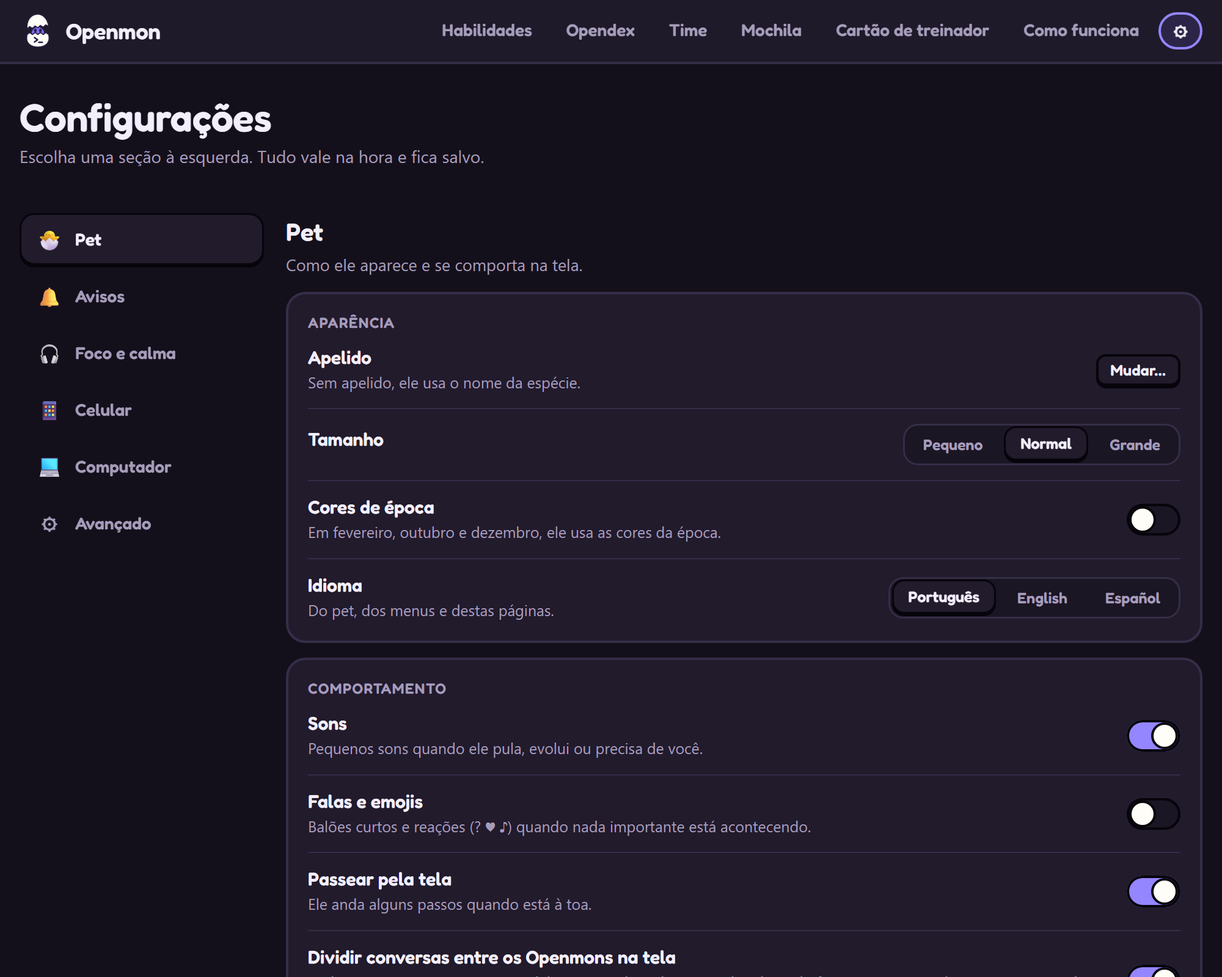
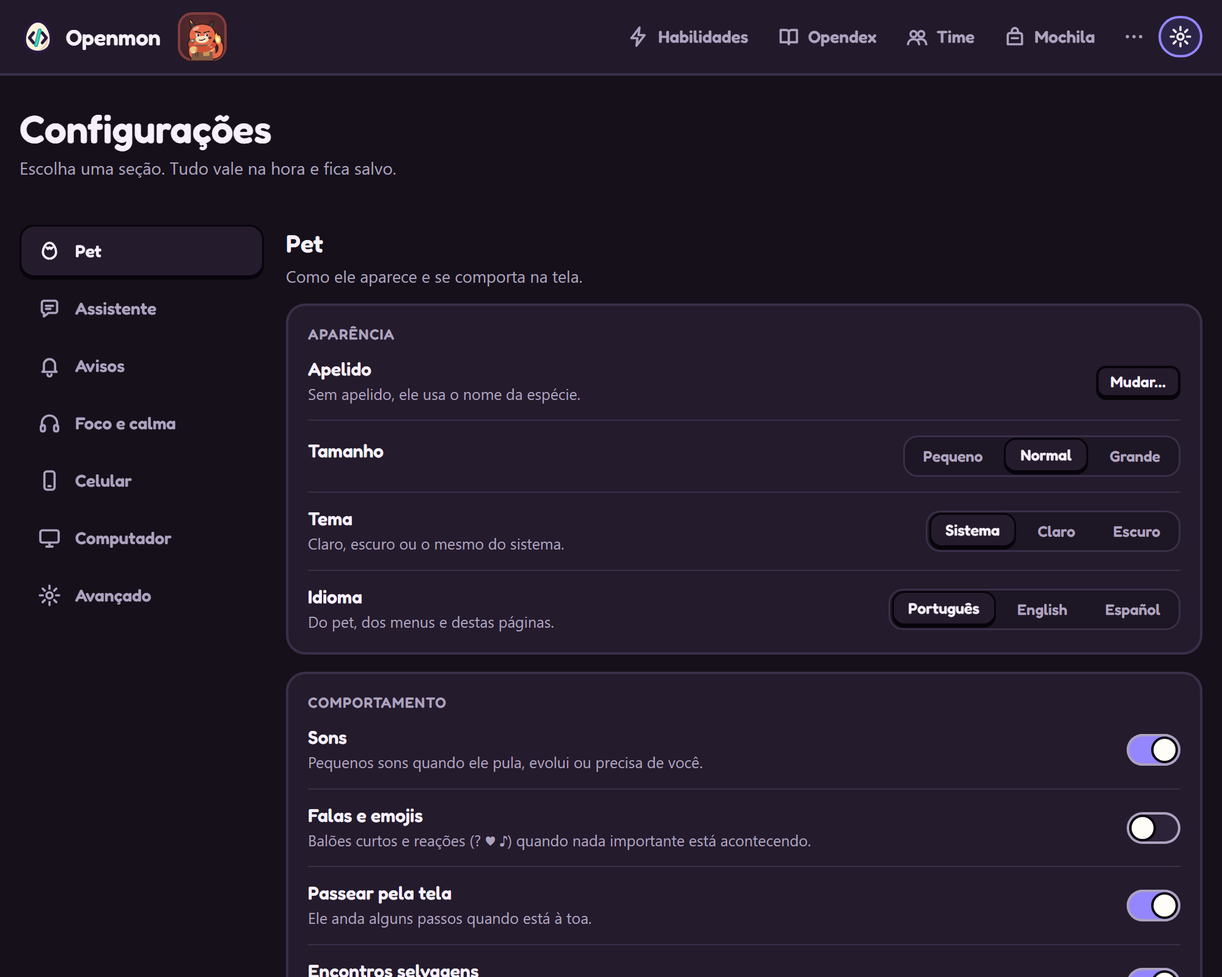
Animation brief for 0.6, with the assistant; fresh screenshots
- docs/VIDEO-BRIEF.md: the banner gets a scene for the assistant (the
  quick box: a reminder asked, answered, then said on time), the inside
  diagram a fifth step (it answers with your own Claude Code and Openmon's
  tools), three languages, no night form, no glow on shinies, privacy said
  truthfully.
- tools/screens.js: also the assistant (a conversation with folded steps
  and code) and the quick box with an answer, one Electron per language.
- docs/screens: regenerated (the top bar, Settings and the rest are as in
  0.6), plus assistant.*.png and quick.*.png.

diff --git a/tools/screens.js b/tools/screens.js
@@ -12,14 +12,20 @@
 const path = require('node:path');
 
 if (!process.versions.electron) {
+  // One Electron per language: each one's assistant conversations are read
+  // when its daemon starts.
   const { spawnSync } = require('node:child_process');
-  const result = spawnSync(require('electron'), [__filename, ...process.argv.slice(2)], { stdio: 'inherit' });
-  process.exit(result.status === null ? 1 : result.status);
+  const asked = process.argv.slice(2).filter((a) => ['pt-BR', 'en', 'es'].includes(a));
+  for (const lang of asked.length ? asked : ['pt-BR', 'en', 'es']) {
+    const result = spawnSync(require('electron'), [__filename, lang], { stdio: 'inherit' });
+    if (result.status !== 0) process.exit(result.status === null ? 1 : result.status);
+  }
+  process.exit(0);
 }
 
 const fs = require('node:fs');
 const os = require('node:os');
-const { app, BrowserWindow } = require('electron');
+const { app, BrowserWindow, ipcMain } = require('electron');
 
 process.env.OPENMON_HOME = fs.mkdtempSync(path.join(os.tmpdir(), 'openmon-screens-home-'));
 const { createDaemon } = require('../src/server');
@@ -78,7 +84,40 @@ const SHOTS = [
   { name: 'help', path: '/help.html', w: 1000, h: 900 },
   { name: 'party', path: '/party.html', w: 1000, h: 1000 },
   { name: 'settings', path: '/settings.html', w: 1000, h: 800 },
+  // The assistant: a conversation, and the quick box with its answer.
+  { name: 'assistant', path: '/chat.html?id=c0ffee00c0ffee01', w: 1000, h: 720, desktop: true },
+  { name: 'quick', path: '/ask.html', w: 420, h: 400, desktop: true },
 ];
+
+// A conversation with the assistant, as Openmon keeps it (chats/), per language.
+const CHAT = {
+  'pt-BR': { title: 'Por que o teste do carrinho falha?', q: 'Por que o teste do carrinho falha?', a: 'O total ignora o desconto quando o cupom é aplicado depois do frete. Corrigi `total()` em **cart.ts**:\n\n```ts\nexport function total(cart: Cart): number {\n  const items = cart.items.reduce((s, i) => s + i.price * i.qty, 0);\n  return Math.max(0, items + cart.shipping - cart.discount); // desconto por último\n}\n```\n\nOs 12 testes passam agora. Quer que eu abra o PR?', quickQ: 'Me lembra às 15h de ligar pro João.', quickA: 'Combinado: às **15:00** eu te aviso para ligar pro João. ⏰' },
+  en: { title: 'Why does the cart test fail?', q: 'Why does the cart test fail?', a: 'The total ignores the discount when the coupon comes after shipping. I fixed `total()` in **cart.ts**:\n\n```ts\nexport function total(cart: Cart): number {\n  const items = cart.items.reduce((s, i) => s + i.price * i.qty, 0);\n  return Math.max(0, items + cart.shipping - cart.discount); // discount last\n}\n```\n\nAll 12 tests pass now. Shall I open the PR?', quickQ: 'Remind me at 3 pm to call John.', quickA: 'Done: at **15:00** I will remind you to call John. ⏰' },
+  es: { title: '¿Por qué falla la prueba del carrito?', q: '¿Por qué falla la prueba del carrito?', a: 'El total ignora el descuento cuando el cupón llega después del envío. Corregí `total()` en **cart.ts**:\n\n```ts\nexport function total(cart: Cart): number {\n  const items = cart.items.reduce((s, i) => s + i.price * i.qty, 0);\n  return Math.max(0, items + cart.shipping - cart.discount); // descuento al final\n}\n```\n\nLas 12 pruebas pasan ahora. ¿Abro el PR?', quickQ: 'Recuérdame a las 15 llamar a Juan.', quickA: 'Listo: a las **15:00** te aviso para llamar a Juan. ⏰' },
+};
+function seedChats(dir, lang, now) {
+  const t = CHAT[lang];
+  const chats = path.join(dir, 'chats');
+  fs.mkdirSync(chats, { recursive: true });
+  const at = (m) => now - m * 60_000;
+  const chat = { id: 'c0ffee00c0ffee01', sessionId: '7a4be6be-457a-4b1d-8748-023f7f090cf2', cwd: path.join(os.homedir(), 'work', 'shop-api'), title: t.title, createdAt: at(30), updatedAt: at(2), costUsd: 0, plan: true, started: true };
+  const quick = { id: 'c0ffee00c0ffee02', sessionId: '7a4be6be-457a-4b1d-8748-023f7f090cf3', cwd: path.join(os.homedir(), 'Documents', 'Openmon'), title: lang === 'pt-BR' ? 'Perguntas rápidas' : lang === 'es' ? 'Preguntas rápidas' : 'Quick questions', createdAt: at(10), updatedAt: at(1), costUsd: 0, plan: true, started: true };
+  fs.writeFileSync(path.join(chats, 'chats.json'), JSON.stringify([chat, quick]));
+  fs.writeFileSync(path.join(chats, `${chat.id}.json`), JSON.stringify([
+    { role: 'user', text: t.q, at: at(6) },
+    { role: 'tool', text: 'Read: cart.ts', tool: 'Read', at: at(5) },
+    { role: 'tool', text: 'Bash: npm test', tool: 'Bash', at: at(5) },
+    { role: 'tool', text: 'Edit: cart.ts', tool: 'Edit', at: at(4) },
+    { role: 'tool', text: 'Bash: npm test', tool: 'Bash', at: at(3) },
+    { role: 'assistant', text: t.a, at: at(2) },
+  ]));
+  fs.writeFileSync(path.join(chats, `${quick.id}.json`), JSON.stringify([
+    { role: 'user', text: t.quickQ, at: at(2) },
+    { role: 'tool', text: 'Openmon · remind: João', tool: 'mcp__openmon__remind', at: at(2) },
+    { role: 'assistant', text: t.quickA, at: at(1) },
+  ]));
+  return quick.id;
+}
 
 // Pages are drawn at twice their size (like a high-density screen), so the
 // README shows them sharp; the README sets the display width. The window
@@ -87,6 +126,8 @@ const SCALE = 2;
 
 async function shot(port, s, lang) {
   const sep = s.path.includes('?') ? '&' : '?';
+  // The assistant's pages need the desktop bridge (the key), as in the app.
+  const desktop = s.desktop ? { preload: path.join(__dirname, '..', 'src', 'page-preload.js'), contextIsolation: true, sandbox: true } : {};
   const win = new BrowserWindow({
     show: false,
     width: s.w * SCALE,
@@ -94,7 +135,7 @@ async function shot(port, s, lang) {
     useContentSize: true,
     enableLargerThanScreen: true,
     backgroundColor: '#14101b',
-    webPreferences: { backgroundThrottling: false, offscreen: true, zoomFactor: SCALE },
+    webPreferences: { backgroundThrottling: false, offscreen: true, zoomFactor: SCALE, ...desktop },
   });
   // The OS clamps a new window to the screen; the size set afterwards sticks.
   win.setContentSize(s.w * SCALE, s.h * SCALE);
@@ -116,20 +157,22 @@ app.whenReady().then(async () => {
   const store = createStore({ dir, delay: 10 });
   store.save(demoPet(now));
   store.flush();
+  const lang = process.argv.find((a) => ['pt-BR', 'en', 'es'].includes(a)) || 'pt-BR';
+  const quickChat = seedChats(dir, lang, now);
   const daemon = createDaemon({ port: 0, store, hooksInstalled: () => true, configFile: path.join(dir, 'config.json'), backups: null });
   const port = await daemon.listen();
-  daemon.setConfig({ chatter: false, tips: ['rightclick', 'jump', 'help'] });
+  daemon.setConfig({ chatter: false, tips: ['rightclick', 'jump', 'help', 'assistant', 'tour'], quickChat });
+  // The desktop bridge of the assistant's pages: the key; nothing else to do.
+  ipcMain.handle('contact-key', () => daemon.contactKey());
+  ipcMain.handle('settings', () => null);
   // Two agents: one at work, one waiting for a permission.
   daemon.ingest({ session_id: 's-web', hook_event_name: 'PreToolUse', tool_name: 'Edit', tool_input: { file_path: 'src/cart.ts' }, cwd: '/work/web' });
   daemon.ingest({ session_id: 's-api', hook_event_name: 'UserPromptSubmit', prompt: 'ship it', cwd: '/work/shop-api' });
   daemon.ingest({ session_id: 's-api', hook_event_name: 'PermissionRequest', tool_name: 'Bash', tool_input: { command: 'npm publish' }, cwd: '/work/shop-api' });
   try {
-    const asked = process.argv.filter((a) => ['pt-BR', 'en', 'es'].includes(a));
-    for (const lang of asked.length ? asked : ['pt-BR', 'en', 'es']) {
-      for (const s of SHOTS) {
-        const size = await shot(port, s, lang);
-        console.log(`${s.name}.${lang}.png ${size.width}x${size.height}`);
-      }
+    for (const s of SHOTS) {
+      const size = await shot(port, s, lang);
+      console.log(`${s.name}.${lang}.png ${size.width}x${size.height}`);
     }
   } catch (err) {
     console.error(err);

diff --git a/docs/VIDEO-BRIEF.md b/docs/VIDEO-BRIEF.md
@@ -1,37 +1,43 @@
 # Openmon: roteiro das animações do README
 
-Briefing para criar as duas animações da página do Openmon no GitHub, no mesmo formato das que já existem no **Vegapunk** e no **Zasatsu Bakuto**:
+Briefing para refazer as duas animações da página do Openmon no GitHub, agora com o **assistente** (Openmon 0.6). Mesmo formato das animações atuais e das referências do **Vegapunk** e do **Zasatsu Bakuto**:
 
 * https://github.com/tiagocardosobezerra/vegapunk
 * https://github.com/tiagocardosobezerra/zasatsu-bakuto
 
-Os arquivos de referência estão no zip, na pasta `referencias/`. Abra num navegador (Chrome ou Edge) para ver as animações rodando.
+No zip:
+
+| Pasta | O que tem |
+| --- | --- |
+| `atuais/` | As animações de hoje (banner e "por dentro", nos 3 idiomas). Abra no Chrome ou no Edge para ver rodando. As novas substituem estas |
+| `criaturas/` | As criaturas usadas nas cenas, com as poses |
+| `marca/` | Logo, marca e ícone |
+| `telas/` | Prints atuais da interface (assistente, pergunta rápida, balão, card, Opendex, Time) em PT, EN e ES, para copiar o visual |
+| `fontes/` | Fredoka (OFL) |
 
 ---
 
-## 1. O formato (igual ao das referências)
+## 1. O formato
 
 Não é vídeo `.mp4`: é **SVG animado**. O GitHub mostra o SVG como imagem no README e a animação roda sozinha, em loop, sem player e sem som.
 
 | Item | Especificação |
 | --- | --- |
 | Tamanho | **1280 × 640** (`viewBox="0 0 1280 640"`) |
-| Animação | **CSS `@keyframes`** dentro de um `<style>` no próprio SVG. Nada de JavaScript, `<script>`, `<foreignObject>` ou SMIL (`<animate>`): o GitHub remove ou não roda |
+| Animação | **CSS `@keyframes`** num `<style>` dentro do SVG. Nada de JavaScript, `<script>`, `<foreignObject>` ou SMIL (`<animate>`): o GitHub remove ou não roda |
 | Loop | Todas as animações com a mesma duração total e `animation-iteration-count: infinite`, para a cena voltar ao começo sem pulo |
-| Arquivos externos | **Nenhum.** Imagens embutidas como SVG inline (de preferência) ou `data:` URI. Fontes embutidas em base64 (woff2, só os caracteres usados) ou textos convertidos em contorno |
-| Peso | Até **250 KB** por arquivo (as referências têm entre 95 e 225 KB) |
-| Idiomas | **Dois arquivos por animação**: português e inglês, mesma linha do tempo, só os textos mudam |
-| Acessibilidade | `role="img"`, `<title>` e um `aria-label` que descreve a animação inteira (veja o texto de cada uma abaixo). Respeite `@media (prefers-reduced-motion: reduce)`: nesse caso, mostre a cena final parada |
-| Organização | Um comentário no topo com a linha do tempo, como nas referências: `/* Linha do tempo: 48 s. Cena 1 0–7 · Cena 2 7–13 · … */` e um comentário por cena |
+| Arquivos externos | **Nenhum.** Imagens como SVG inline (de preferência) ou `data:` URI. Fontes em base64 (woff2, só os caracteres usados) ou textos em contorno |
+| Peso | Até **250 KB** por arquivo |
+| Idiomas | **Três arquivos por animação**: português, inglês e espanhol. Mesma linha do tempo, só os textos mudam |
+| Acessibilidade | `role="img"`, `<title>` e um `aria-label` que descreve a animação inteira (textos abaixo). Com `@media (prefers-reduced-motion: reduce)`, mostre a cena final parada |
+| Organização | Um comentário no topo com a linha do tempo (`/* Linha do tempo: 56 s. Cena 1 0–7 · … */`) e um comentário por cena |
 
-### Nomes dos arquivos (vão para `assets/` no repositório)
+### Nomes dos arquivos (vão para `assets/`)
 
-| Animação | Português | Inglês |
-| --- | --- | --- |
-| Banner do topo | `openmon-banner.svg` | `openmon-banner.en.svg` |
-| Como funciona por dentro | `openmon-dentro.svg` | `openmon-dentro.en.svg` |
-
-O banner atual (`referencias/openmon-banner-atual.svg`) é estático; o novo substitui ele.
+| Animação | Português | Inglês | Espanhol |
+| --- | --- | --- | --- |
+| Banner do topo | `openmon-banner.svg` | `openmon-banner.en.svg` | `openmon-banner.es.svg` |
+| Como funciona por dentro | `openmon-dentro.svg` | `openmon-dentro.en.svg` | `openmon-dentro.es.svg` |
 
 ---
 
@@ -41,125 +47,150 @@ O banner atual (`referencias/openmon-banner-atual.svg`) é estático; o novo sub
 | --- | --- |
 | Tinta (contornos, texto escuro) | `#2a2140` |
 | Roxo da marca | `#7c6cf2` |
-| Amarelo (destaques, placa "!") | `#ffe156` |
+| Amarelo (destaques, placa "!", botão principal) | `#ffe156` |
 | Creme (balões, ovo) | `#fffdf7` |
-| Fundo escuro do banner | do `#2a2140` ao `#3d2f6b` (como o banner atual) |
-| Vermelho (erro, Opendex) | `#e5484d` |
+| Fundo escuro | do `#15101a` ao `#2a2140` (o fundo do app) |
+| Fundo dos balões e cards no escuro | `#241b2c` |
+| Vermelho (erro) | `#e5484d` |
+| Verde (testes passando) | `#3fb8a6` |
 
-* **Fonte dos títulos:** Fredoka (OFL), na pasta `fontes/`. Texto corrido: uma sans-serif simples (Nunito ou a do sistema), ou converta em contorno.
-* **Estilo:** o mesmo das criaturas: contorno grosso cor de tinta, cel shading de 2 tons, cantos arredondados. Balões e cards copiam a interface real (veja `telas/`).
+* **Fonte dos títulos:** Fredoka (`fontes/`). Texto corrido: Nunito ou a do sistema, ou em contorno.
+* **Estilo:** o das criaturas: contorno grosso cor de tinta, cel shading de 2 tons, cantos arredondados. Balões, card, caixinha e chat copiam a interface real (`telas/`).
 * **Marca:** `marca/logo-full-white.svg` no fundo escuro.
 
 ---
 
-## 3. Animação 1: banner do topo (48 s)
+## 3. Animação 1: banner do topo (56 s)
 
-Mostra, em 6 cenas, o que é o Openmon: um bichinho no canto da tela que acompanha o agente de IA, avisa quando ele precisa de você e evolui com o trabalho.
+Em 7 cenas, o que é o Openmon: um bichinho no canto da tela que acompanha o agente de IA, avisa quando ele precisa de você, **é o seu assistente** e evolui com o trabalho.
 
 **Cenário fixo:** a tela de um computador estilizada (fundo escuro), com uma **janela de terminal** à esquerda (o Claude Code trabalhando) e o **Openmon** no canto inferior direito, em cima da barra de tarefas.
 
 ```
-/* Linha do tempo: 48 s. Cena 1 0–7 · Cena 2 7–15 · Cena 3 15–24 · Cena 4 24–34 · Cena 5 34–42 · Cena 6 42–48 */
+/* Linha do tempo: 56 s. Cena 1 0–7 · Cena 2 7–15 · Cena 3 15–23 · Cena 4 23–34 · Cena 5 34–42 · Cena 6 42–50 · Cena 7 50–56 */
 ```
 
 ### Cena 1 · 0–7 s · "Ele mora no canto da sua tela"
 
 * Abre na tela vazia. O **ovo** (`criaturas/egg.svg`) aparece no canto com um quique.
-* O ovo balança, racha e choca: vira o **Tinkit** (`craft-juvenile.svg`), o inicial escolhido, com um brilho.
+* O ovo balança, racha e choca: vira o **Tinkit** (`craft-juvenile.svg`), com um brilho.
 * Legenda: **"Um bichinho no canto da sua tela."**
 * EN: **"A little creature in the corner of your screen."**
+* ES: **"Una mascotita en la esquina de tu pantalla."**
 
 ### Cena 2 · 7–15 s · "Ele faz o que o seu agente faz"
 
-* O terminal à esquerda ganha linhas, uma por vez: `Read checkout.ts` → `Edit cart.ts` → `npm test`.
-* O pet troca de pose junto (2,5 s cada):
-  * lendo: `craft-juvenile@working.svg` com um livrinho (ou só a pose working)
-  * editando: `craft-juvenile@working.svg` com o martelinho
-  * testando: escudo; os testes passam, ele pula (`craft-juvenile@done.svg`) com confete
+* O terminal ganha linhas, uma por vez: `Read checkout.ts` → `Edit cart.ts` → `npm test`.
+* O pet troca de pose junto (2,5 s cada): lendo e editando com `craft-juvenile@working.svg`; testando com o escudo. Os testes passam e ele pula (`craft-juvenile@done.svg`) com confete.
 * Legenda: **"Ele lê, martela e testa junto com o seu agente."**
 * EN: **"It reads, hammers and tests along with your agent."**
+* ES: **"Lee, martillea y prueba junto con tu agente."**
 
-### Cena 3 · 15–24 s · "E avisa quando precisa de você"
+### Cena 3 · 15–23 s · "E avisa quando precisa de você"
 
-* O terminal para numa pergunta de permissão (`Allow Bash: npm publish?`).
-* O pet pula segurando a **placa "!"** (`craft-juvenile@attention.svg`). Aparece o **balão** igual ao da interface (veja `telas/pet-attention.*.png`): "Precisa de você · alpha", com os botões **Permitir · Sempre · Recusar**.
-* Um cursor clica em **Permitir**: o balão some, o terminal continua sozinho, o pet comemora.
+* O terminal para num pedido de permissão (`Allow Bash: npm publish?`).
+* O pet pula com a **placa "!"** (`craft-juvenile@attention.svg`). Aparece o **balão** igual ao do app (`telas/pet-attention.*.png`): "Precisa de você · shop-api", com **Permitir · Recusar**.
+* Um cursor clica em **Permitir**: o balão some, o terminal continua, o pet comemora.
 * Legenda: **"Precisa de você? Ele avisa. Um clique e você responde."**
 * EN: **"Needs you? It tells you. One click and you answer."**
+* ES: **"¿Te necesita? Te avisa. Un clic y respondes."**
 
-### Cena 4 · 24–34 s · "Cresce com o seu trabalho"
+### Cena 4 · 23–34 s · "E é o seu assistente" (nova)
 
-* Uma barra de XP enche no card. O pet evolui em sequência, com flash branco entre as formas (como no jogo):
-  `craft-juvenile` → `craft-adult` (Forgemaw) → `craft-mythic` (Archsmith, com aura)
-* Ao lado, 4 chips de tipo acendem um por vez, mostrando que o tipo vem do trabalho: **Forja (editar) · Saber (ler) · Teste (testar) · Escriba (documentar)**, com a criatura jovem de cada um (`craft-juvenile`, `lore-juvenile`, `test-juvenile`, `docs-juvenile`).
+A cena mais importante da versão nova. Copie a **caixinha de pergunta rápida** de `telas/quick.*.png`.
+
+1. **23–25 s:** aparece um atalho de teclado na tela, `Ctrl` `Alt` `A`, como teclas. A **caixinha** abre ao lado do pet, com o rosto dele e o título "Pergunte a Tinkit".
+2. **25–27 s:** o texto é digitado letra por letra: **"Me lembra às 15h de ligar pro João."** (EN: "Remind me at 3 pm to call John." · ES: "Recuérdame a las 15 llamar a Juan.")
+3. **27–30 s:** a pergunta sobe como balão roxo. Embaixo aparece a linha pequena do que ele está fazendo, com uma bolinha piscando: `Openmon · remind`. A resposta surge **letra por letra**, com o cursor `▍`: **"Combinado: às 15:00 eu te aviso para ligar pro João. ⏰"**
+4. **30–34 s:** a caixinha fecha. Um relógio no canto da barra de tarefas avança rápido até **15:00**. O pet pula e mostra o balão **"⏰ Lembrete · Ligar pro João"**.
+
+* Legenda: **"E é o seu assistente: pergunte, peça, ele lembra."**
+* EN: **"And it is your assistant: ask, request, it remembers."**
+* ES: **"Y es tu asistente: pregunta, pide, él recuerda."**
+
+### Cena 5 · 34–42 s · "Cresce com o seu trabalho"
+
+* Uma barra de XP enche no card. O pet evolui em sequência, com flash branco entre as formas: `craft-juvenile` → `craft-adult` (Forgemaw) → `craft-mythic` (Archsmith, com aura).
+* Ao lado, 4 chips de tipo acendem um por vez: **Forja (editar) · Saber (ler) · Teste (testar) · Escriba (documentar)**, com a criatura jovem de cada um (`craft-juvenile`, `lore-juvenile`, `test-juvenile`, `docs-juvenile`).
 * Legenda: **"Ele evolui conforme o trabalho que o agente mais faz."**
 * EN: **"It evolves into the kind of work your agent does most."**
+* ES: **"Evoluciona según el trabajo que más hace tu agente."**
 
-### Cena 5 · 34–42 s · "Colecione"
+### Cena 6 · 42–50 s · "Colecione"
 
-* Uma grade da **Opendex** aparece (inspiração: `telas/dex.*.png`), formas acendendo da silhueta para a cor, rápido.
-* Destaques, um por vez (1,5 s cada):
-  * um **shiny** com estrelinhas em volta (sem halo) (`craft-adult.shiny.svg` + as estrelinhas, ver nota abaixo)
-  * um **noturno** com a lua (`roam-adult.night.svg`)
-  * um **lendário** (`mergeon.svg`)
-  * o **Time**: três Openmons lado a lado no canto da tela (`craft-mythic`, `docs-adult`, `git-juvenile`)
-* Legenda: **"39 formas, raras e lendárias. Até 3 na tela."**
-* EN: **"39 forms, rare ones and legendaries. Up to 3 on screen."**
+* Uma grade da **Opendex** (`telas/dex.*.png`), as formas acendendo da silhueta para a cor, rápido.
+* Destaques, um por vez (2 s cada):
+  * um **brilhante** (`craft-adult.shiny.svg`) com estrelinhas em volta (veja as notas);
+  * um **lendário** (`mergeon.svg`);
+  * o **Time**: três Openmons lado a lado no canto da tela (`craft-mythic`, `docs-adult`, `git-juvenile`).
+* Legenda: **"39 formas, brilhantes e lendárias. Até 3 na tela."**
+* EN: **"39 forms, shiny ones and legendaries. Up to 3 on screen."**
+* ES: **"39 formas, brillantes y legendarias. Hasta 3 en pantalla."**
 
-### Cena 6 · 42–48 s · fecho
+> Não use mais o Openmon **noturno** (com a lua): essa variante saiu do jogo.
 
-* A tela escurece; o **logo** (`marca/logo-full-white.svg`) aparece no centro, com o Archsmith ao lado.
-* Embaixo, os chips: **Claude Code · 100% local · 39 formas · PT · EN · ES**.
-* Frase: **"Seu agente trabalha. Seu Openmon cresce."**
-* EN: **"Your agent works. Your Openmon grows."**
+### Cena 7 · 50–56 s · fecho
+
+* A tela escurece. O **logo** (`marca/logo-full-white.svg`) aparece no centro, com o Archsmith ao lado.
+* Embaixo, os chips: **Claude Code · Assistente · No seu PC · 39 formas · PT · EN · ES** (EN: Claude Code · Assistant · On your PC · 39 forms · PT · EN · ES; ES: Claude Code · Asistente · En tu PC · 39 formas · PT · EN · ES).
+* Frase: **"Seu agente trabalha. Seu Openmon cresce e te ajuda."**
+* EN: **"Your agent works. Your Openmon grows and helps you."**
+* ES: **"Tu agente trabaja. Tu Openmon crece y te ayuda."**
 * Segura 2 s e faz fade para a Cena 1.
 
 ### `aria-label` do banner
 
-* PT: "Animação do Openmon: um ovo choca no canto da tela; o bichinho lê, martela e testa junto com o agente de IA; quando o agente precisa de permissão, ele pula com uma placa e você responde com um clique; ele evolui conforme o trabalho e vira uma coleção de 39 formas, com raros e lendários. Seu agente trabalha. Seu Openmon cresce."
-* EN: "Openmon animation: an egg hatches in the corner of the screen; the creature reads, hammers and tests along with your AI agent; when the agent needs permission it jumps with a sign and you answer with one click; it evolves with the work and becomes a collection of 39 forms, with rare ones and legendaries. Your agent works. Your Openmon grows."
+* PT: "Animação do Openmon: um ovo choca no canto da tela; o bichinho lê, martela e testa junto com o agente de IA; quando o agente precisa de permissão, ele pula com uma placa e você responde com um clique; ele também é o seu assistente: você pede um lembrete numa caixinha ao lado dele, e na hora ele avisa; ele evolui com o trabalho e vira uma coleção de 39 formas, com brilhantes e lendários. Seu agente trabalha. Seu Openmon cresce e te ajuda."
+* EN: "Openmon animation: an egg hatches in the corner of the screen; the creature reads, hammers and tests along with your AI agent; when the agent needs permission it jumps with a sign and you answer with one click; it is also your assistant: you ask for a reminder in a small box next to it, and on time it tells you; it evolves with the work and becomes a collection of 39 forms, with shiny ones and legendaries. Your agent works. Your Openmon grows and helps you."
+* ES: "Animación de Openmon: un huevo eclosiona en la esquina de la pantalla; la mascota lee, martillea y prueba junto con el agente de IA; cuando el agente necesita permiso, salta con un cartel y respondes con un clic; también es tu asistente: pides un recordatorio en una cajita junto a ella y, a la hora, te avisa; evoluciona con el trabajo y se vuelve una colección de 39 formas, con brillantes y legendarias. Tu agente trabaja. Tu Openmon crece y te ayuda."
 
 ---
 
-## 4. Animação 2: como funciona por dentro (30 s)
+## 4. Animação 2: como funciona por dentro (36 s)
 
-Um diagrama animado, como o `vegapunk-sonar.svg` e o `zasatsu-dominio.svg`: quatro passos da esquerda para a direita, uma legenda por vez no topo, e um "pacotinho" (bolinha amarela) que viaja entre eles.
+Diagrama animado, como o atual (`atuais/openmon-dentro.svg`): passos da esquerda para a direita, uma legenda por vez no topo, e um "pacotinho" (bolinha amarela) que viaja entre eles. A versão nova ganha um **quinto passo**, o assistente, em que o pacotinho faz a volta: do pet para o Claude e de volta para o pet.
 
 ```
-/* Linha do tempo: 30 s. 1 O agente avisa 0–7 · 2 Vira sinal 7–14 · 3 O pet decide 14–22 · 4 Aparece na tela 22–30 */
+/* Linha do tempo: 36 s. 1 O agente avisa 0–6 · 2 Vira sinal 6–12 · 3 O pet decide 12–19 · 4 Aparece na tela 19–26 · 5 E responde 26–36 */
 ```
 
-| Passo | Tempo | Visual | Legenda PT | Legenda EN |
-| --- | --- | --- | --- | --- |
-| 1 · O agente avisa | 0–7 s | Ícones do Claude Code, Gemini CLI, Cursor, OpenCode e Aider em coluna; de um deles sai um evento `PostToolUse · Edit cart.ts` | "Os agentes já avisam o que fazem (hooks)." | "Agents already report what they do (hooks)." |
-| 2 · Vira sinal | 7–14 s | O pacote entra numa caixa `127.0.0.1:4747` com um cadeado ("só no seu PC") e sai como etiquetas: `tool-done · craft`, `test-end ✓`, `attention` | "Um servidor local transforma cada aviso em sinal." | "A local server turns each notice into a signal." |
-| 3 · O pet decide | 14–22 s | Três trilhas acendendo: **Pose** (dormir, trabalhar, pedir ajuda, comemorar), **XP e tipo** (barra enche, chip "Forja"), **Habilidades** (diário de arquivos, testes, consertos) | "Ele decide a pose, ganha XP e anota o que o agente fez." | "It picks a pose, earns XP and keeps a log of the work." |
-| 4 · Aparece na tela | 22–30 s | O pet na área de trabalho com o balão; um ramo opcional, tracejado, para o celular ("opcional, ntfy") | "Tudo aparece no canto da tela. Nada sai do seu PC." | "Everything shows up in the corner. Nothing leaves your PC." |
+| Passo | Tempo | Visual | Legenda PT | Legenda EN | Legenda ES |
+| --- | --- | --- | --- | --- | --- |
+| 1 · O agente avisa | 0–6 s | Ícones do Claude Code, Gemini CLI, Cursor, OpenCode e Aider em coluna; de um deles sai um evento `PostToolUse · Edit cart.ts` | "Os agentes já avisam o que fazem (hooks)." | "Agents already report what they do (hooks)." | "Los agentes ya avisan lo que hacen (hooks)." |
+| 2 · Vira sinal | 6–12 s | O pacote entra numa caixa `127.0.0.1:4747` com um cadeado ("só no seu PC") e sai como etiquetas: `tool-done · craft`, `test-end ✓`, `attention` | "Um servidor local transforma cada aviso em sinal." | "A local server turns each notice into a signal." | "Un servidor local convierte cada aviso en señal." |
+| 3 · O pet decide | 12–19 s | Três trilhas acendendo: **Pose** (dormir, trabalhar, pedir ajuda, comemorar), **XP e tipo** (barra enche, chip "Forja"), **Habilidades** (diário de arquivos e testes) | "Ele decide a pose, ganha XP e anota o que o agente fez." | "It picks a pose, earns XP and keeps a log of the work." | "Elige la pose, gana XP y anota lo que hizo el agente." |
+| 4 · Aparece na tela | 19–26 s | O pet na área de trabalho com o balão; um ramo tracejado para o celular ("opcional, ntfy") | "Tudo aparece no canto da tela." | "Everything shows up in the corner." | "Todo aparece en la esquina." |
+| 5 · E responde (novo) | 26–36 s | Da caixinha ao lado do pet, o pacote vai para uma caixa **"seu Claude Code"** (com o logo do Claude e a etiqueta `claude -p`), dela para uma nuvem pequena **"Anthropic"** e volta. Na volta, ele passa por três etiquetas de **ferramentas do Openmon**: `⏰ lembrete`, `🧠 memória`, `💬 balão`, e termina como resposta na caixinha. Um selo na caixa: "seu login, seus conectores, sem chave de API" | "E responde como seu assistente, com o seu Claude Code." | "And answers as your assistant, with your own Claude Code." | "Y responde como tu asistente, con tu propio Claude Code." |
 
-Faixa fixa no topo (como no Vegapunk): **"Escuta. Cresce. Avisa."** / EN: **"Listens. Grows. Tells you."**
+Faixa fixa no topo: **"Escuta. Cresce. Avisa. Ajuda."** / EN: **"Listens. Grows. Tells you. Helps."** / ES: **"Escucha. Crece. Avisa. Ayuda."**
+
+Rodapé discreto, no passo 5: **"O Openmon não manda nada a mais: o assistente é o seu Claude Code."** / EN: **"Openmon sends nothing more: the assistant is your Claude Code."** / ES: **"Openmon no envía nada más: el asistente es tu Claude Code."**
 
 ### `aria-label` do diagrama
 
-* PT: "Como o Openmon funciona por dentro: os agentes de IA avisam cada passo por hooks; um servidor local em 127.0.0.1:4747 transforma cada aviso em um sinal; o pet decide a pose, ganha experiência e registra o que o agente fez; tudo aparece no canto da tela, sem sair do seu computador."
-* EN: "How Openmon works inside: AI agents report each step through hooks; a local server at 127.0.0.1:4747 turns each notice into a signal; the pet picks a pose, earns experience and logs what the agent did; everything shows up in the corner of your screen without leaving your computer."
+* PT: "Como o Openmon funciona por dentro: os agentes de IA avisam cada passo por hooks; um servidor local em 127.0.0.1:4747 transforma cada aviso em sinal; o pet decide a pose, ganha experiência e registra o que o agente fez; tudo aparece no canto da tela; e, como assistente, ele responde usando o seu próprio Claude Code, que pode criar lembretes, guardar o que deve lembrar e falar pelo balão. O Openmon não manda nada a mais."
+* EN: "How Openmon works inside: AI agents report each step through hooks; a local server at 127.0.0.1:4747 turns each notice into a signal; the pet picks a pose, earns experience and logs what the agent did; everything shows up in the corner of the screen; and, as your assistant, it answers with your own Claude Code, which can set reminders, keep what it should remember and speak through the bubble. Openmon sends nothing more."
+* ES: "Cómo funciona Openmon por dentro: los agentes de IA avisan cada paso por hooks; un servidor local en 127.0.0.1:4747 convierte cada aviso en señal; la mascota elige la pose, gana experiencia y registra lo que hizo el agente; todo aparece en la esquina de la pantalla; y, como asistente, responde con tu propio Claude Code, que puede crear recordatorios, guardar lo que debe recordar y hablar por la burbuja. Openmon no envía nada más."
 
 ---
 
-## 5. Notas sobre as criaturas
+## 5. Notas sobre as criaturas e a interface
 
-* Todas as criaturas estão em `criaturas/`, com o nome do arquivo igual ao do app: `<forma>[.shiny][@pose].svg`. Poses: `@sleep`, `@working`, `@attention`, `@error`, `@done`.
-* **Shiny:** os arquivos `.shiny` vêm sem as estrelinhas (o app desenha). Na animação, desenhe só as estrelas de 4 pontas `#fffbe0` com contorno `#e9a92a` em volta, piscando uma depois da outra, sem halo nem anel.
-* **Movimento do pet (para ficar igual ao app):** respiração (escala 1 → 1,03 em 2,4 s), pulinho na troca de pose, piscar a cada 3–4 s, tremidinha no erro, giro na evolução.
-* Acessórios (`acessorios/`) e itens (`itens/`) podem enfeitar a cena 5, mas não são obrigatórios.
-* `telas/` tem prints atuais da interface (card, balão, Opendex, Time, Mochila, Habilidades, Configurações) em PT e EN, para copiar o visual dos balões e cards.
+* As criaturas em `criaturas/` têm o nome do app: `<forma>[.shiny][@pose].svg`. Poses: `@sleep`, `@working`, `@attention`, `@error`, `@done`.
+* **Brilhante:** os arquivos `.shiny` vêm sem as estrelinhas (o app desenha). Na animação, desenhe só estrelas de 4 pontas `#fffbe0` com contorno `#e9a92a` em volta, piscando uma depois da outra, **sem halo nem anel**.
+* **Movimento do pet (igual ao app):** respiração (escala 1 → 1,03 em 2,4 s), pulinho na troca de pose, piscar a cada 3–4 s, tremidinha no erro, giro na evolução.
+* **A caixinha** (cena 4): fundo `#241b2c`, contorno de tinta 2,5 px, cantos 18 px. A pergunta é um balão roxo `#7c6cf2` à direita; a resposta é um balão escuro à esquerda, com contorno fino. "Responder" é o botão amarelo. Veja `telas/quick.*.png`.
+* **O assistente** (se quiser um quadro a mais na cena 4): `telas/assistant.*.png` mostra a janela, com a linha de passos dobrada ("4 passos · editou 1 · leu 1 · rodou 2") e o código colorido.
+* `telas/` também tem o balão (`pet-attention`), o card (`pet-card`), a Opendex (`dex`) e o Time (`party`), em PT, EN e ES.
 
 ---
 
 ## 6. Checklist de entrega
 
-- [ ] 4 arquivos: `openmon-banner.svg`, `openmon-banner.en.svg`, `openmon-dentro.svg`, `openmon-dentro.en.svg`
+- [ ] 6 arquivos: `openmon-banner.svg`, `openmon-banner.en.svg`, `openmon-banner.es.svg`, `openmon-dentro.svg`, `openmon-dentro.en.svg`, `openmon-dentro.es.svg`
 - [ ] 1280 × 640, CSS `@keyframes`, loop sem pulo, sem JavaScript e sem arquivos externos
 - [ ] Até 250 KB cada
 - [ ] `<title>`, `role="img"` e `aria-label` em cada um (textos acima)
 - [ ] Com `prefers-reduced-motion`, mostra a cena final parada
+- [ ] Sem o Openmon noturno; brilhante sem halo
 - [ ] Testado abrindo o SVG direto no Chrome e no Firefox
